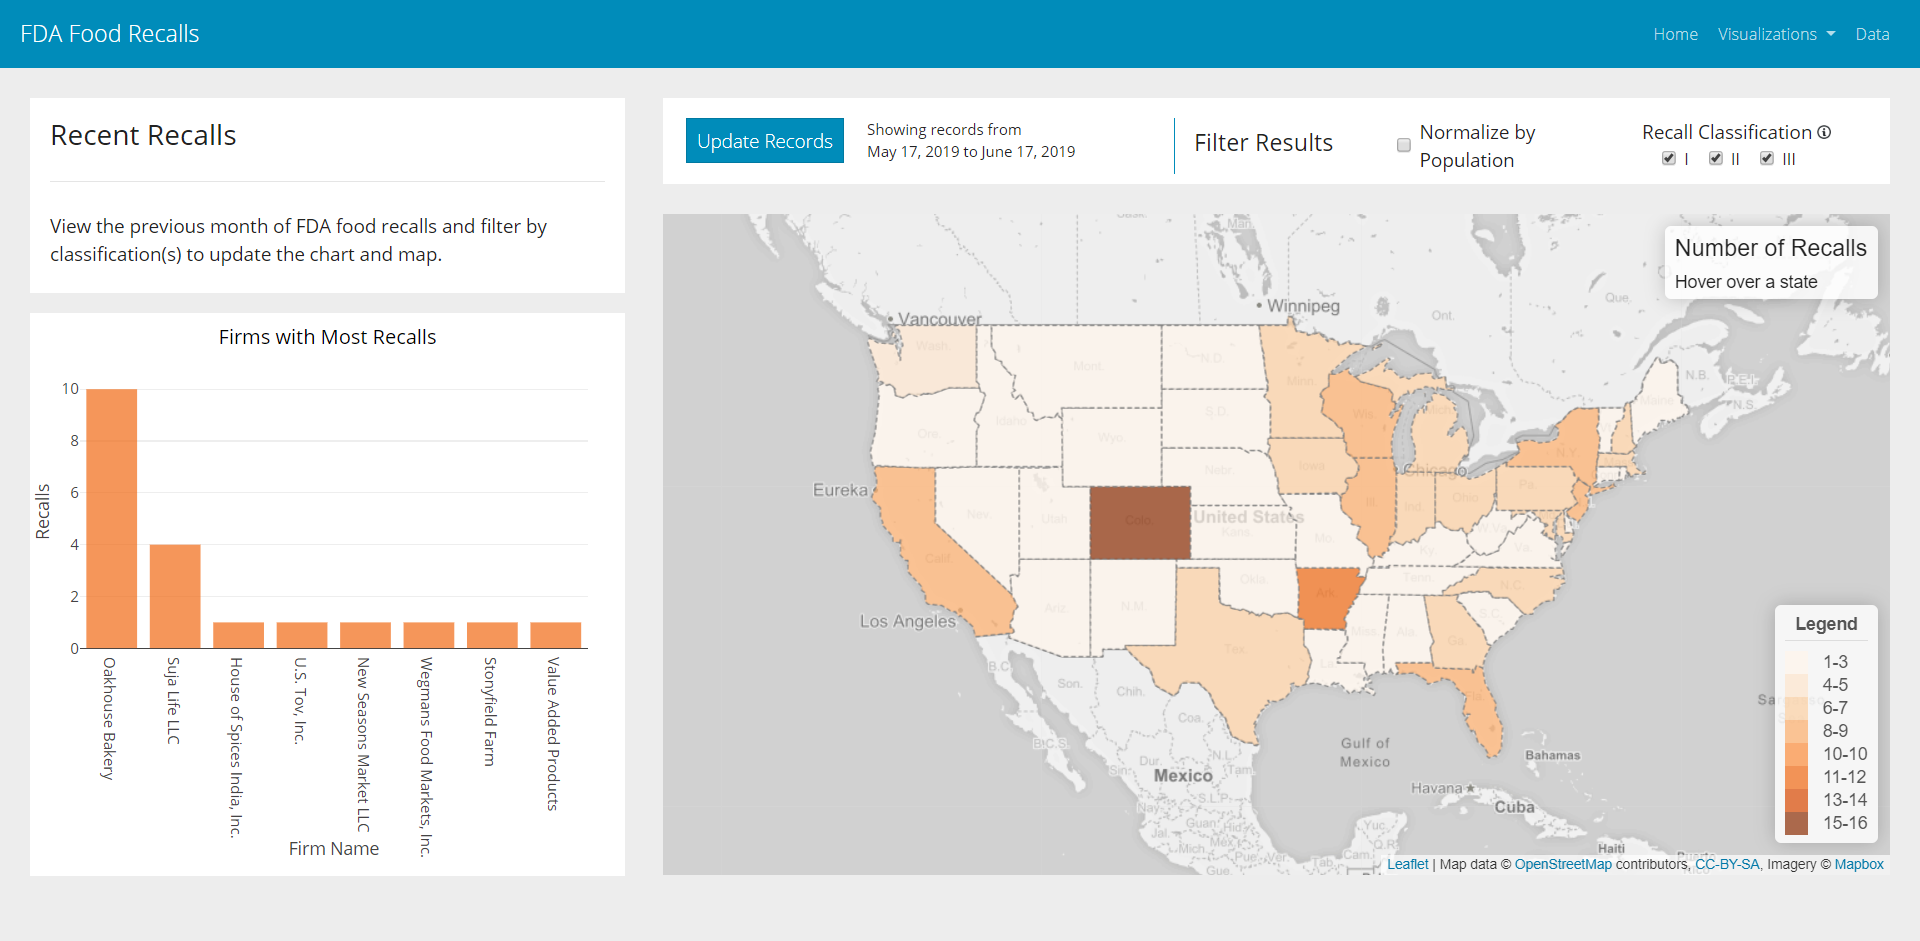
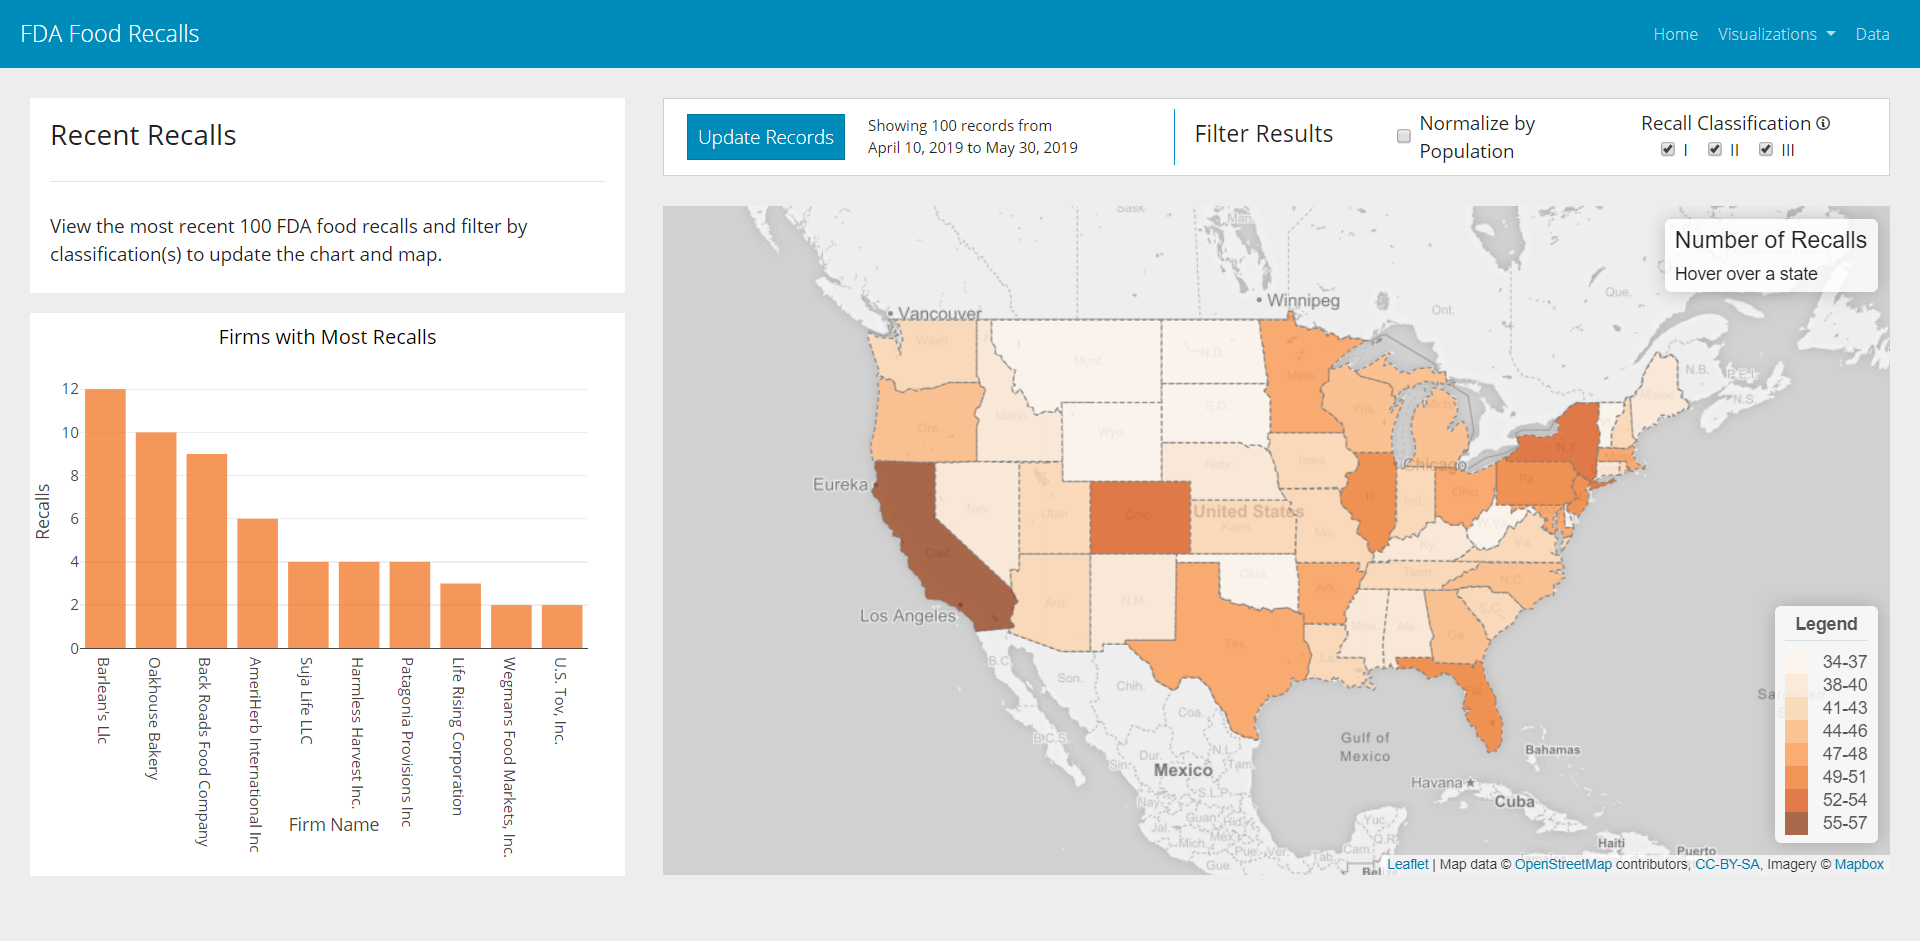
Update .md

diff --git a/README.md b/README.md
@@ -1,2 +1,46 @@
-# fda-food-recalls
-FDA Food Recalls
+# FDA Food Recalls
+FDA Food Recalls - Visualization Dashboards
+
+**Description**  
+The purpose of this project was to develop a full-stack application based on data on food recalls made available by the US Food & Drug Administration via the OpenFDA portal.  
+
+**Data Source**  
+  * [open.fda.gov](https://open.fda.gov/)  
+
+**Process**  
+  * Data was gathered from the OpenFDA portal via [direct download](https://open.fda.gov/downloads/).  Data for the Recent Recalls dashboard is pulled in real-time from the [fda.gov API for Food Recall Enforcement Reports](https://open.fda.gov/apis/food/enforcement/how-to-use-the-endpoint/).  
+  * Downloaded data was cleaned using Python and pandas, and converted to a SQLite database with over 4,000 records of food recalls between 2012 and 2019.  
+  * Flask was then used to create the necessary routes to serve the HTML pages and query the database.  
+  * Visualizations were generated using Plotly, Leaflet, and JSCharting. Additionally, Popper.js and noUiSlider were used for HTML elements.  
+  * User input is gathered via Javascript, data is retrieved from the database or fda.gov API, and visualizations are subsequently generated based on user-selected filters.  
+
+---
+
+**Landing Page**  
+
+![alt text](static/images/landing_page.png "Landing Page")
+
+---
+
+**Recalls by State over Time**  
+
+This page displays a time-series line chart from 2012-2019 based on SQL queries to a Flask endpoint, pulling data from the SQLite database.  National average is shown by default, and states can be added or removed from the chart by clicking the associated state name.  
+
+![alt text](static/images/recalls_by_state.gif "Recalls By State")
+
+---
+
+**Past Recalls Dashboard**  
+
+This dashboard displays several visualizations based on SQL queries to a Flask endpoint, pulling data from the SQLite database.  User-selected filters are processed using Javascript and the visualizations are updated based on all filters currently selected.  These visualizations include (1) a pareto bar chart which displays the top ten recalling firms and (2) a choropleth map indicating the relative number of recalls for each state.  An option has been included to normalize data by state population (using state population data from the 2010 Census).  Filters are available for Recall Classification (an indication of severity) as well as date range.  Visualizations are updated immediately upon any changes to the normalization check box, classification check boxes, or date slider.  
+
+![alt text](static/images/past_recalls.gif "Past Recalls Dashboard")
+
+---
+
+**Recent Recalls Dashboard**  
+
+This dashboard displays several visualizations based on a real-time query to the fda.gov API to collect the most recent 100 food recalls in the FDA's database (this database is updated weekly).  Similar to the Past Recalls Dashboard, user-selected filters are processed using Javascript and the visualizations are updated based on all filters currently selected.  These visualizations include (1) a pareto bar chart which displays the top ten recalling firms and (2) a choropleth map indicating the relative number of recalls for each state.  An option has been included to normalize data by state population (using state population data from the 2010 Census).  Filters are available for Recall Classification (an indication of severity).  Visualizations are updated immediately upon any changes to the normalization check box or classification check boxes.  Additionally, clicking on a state will display a summary of all recalls affecting that state which meet the currently selected filters.  
+
+![alt text](static/images/recent_recalls.gif "Recent Recalls Dashboard")
+
